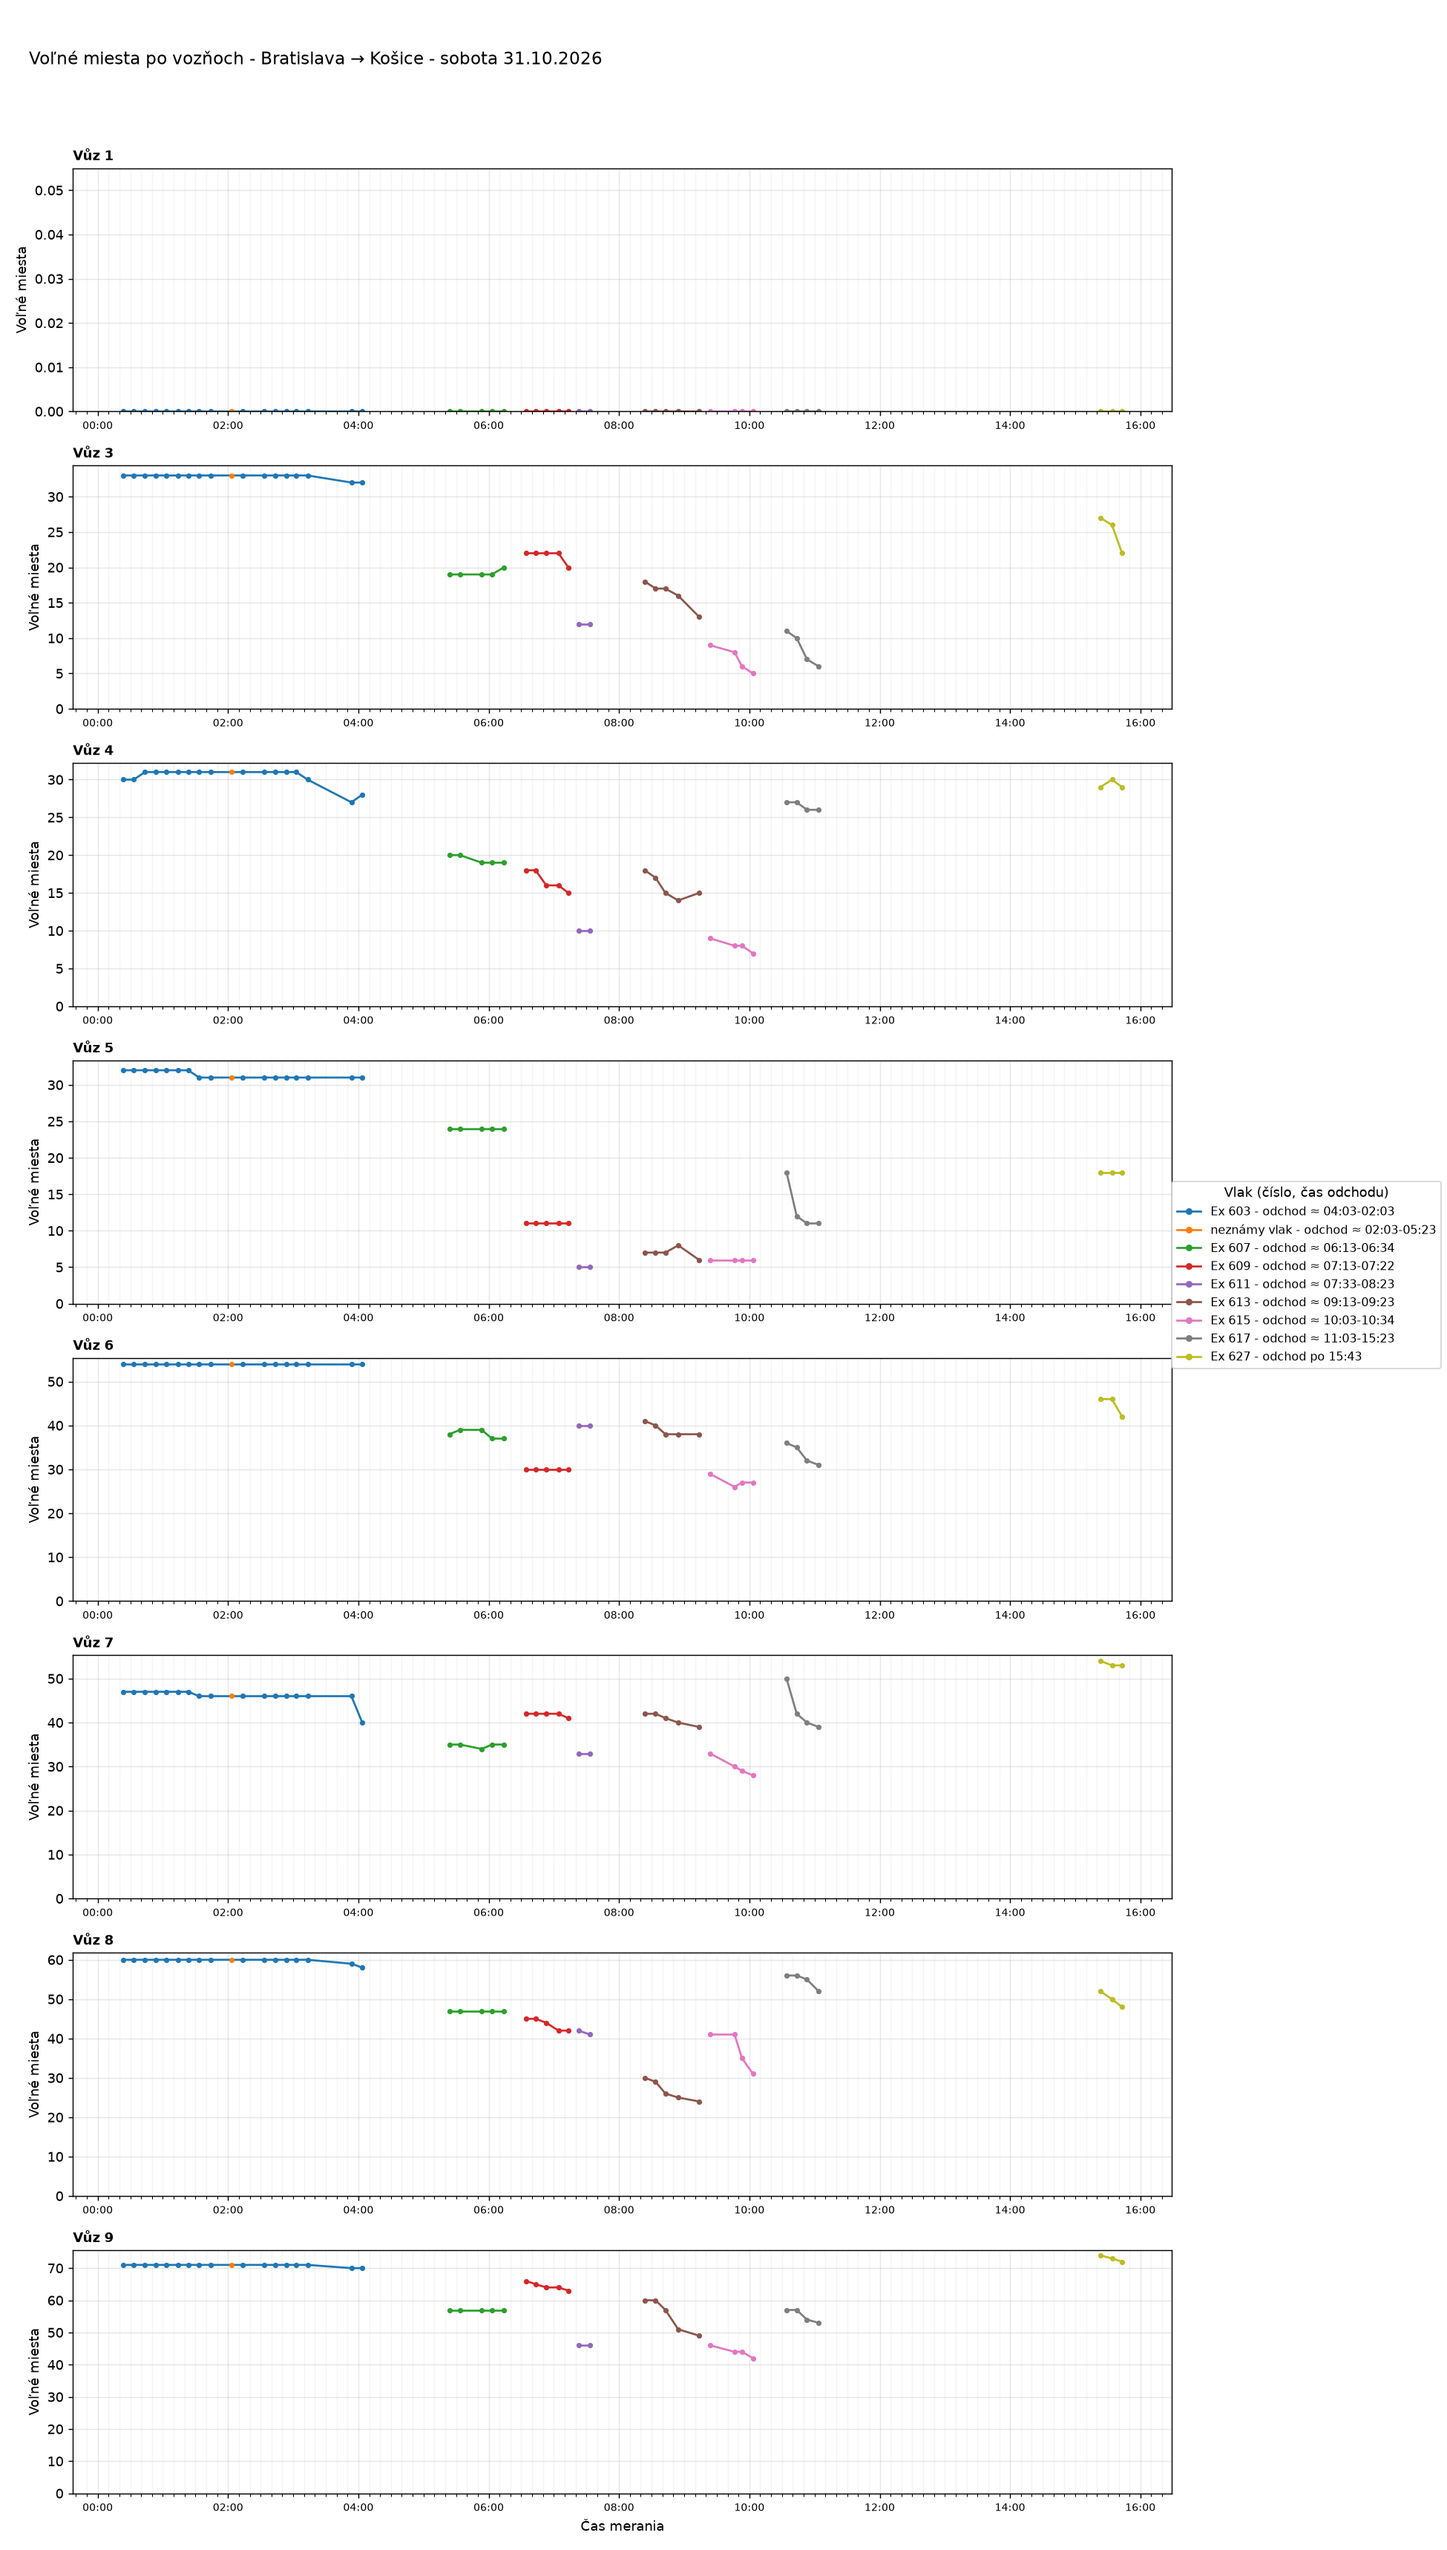
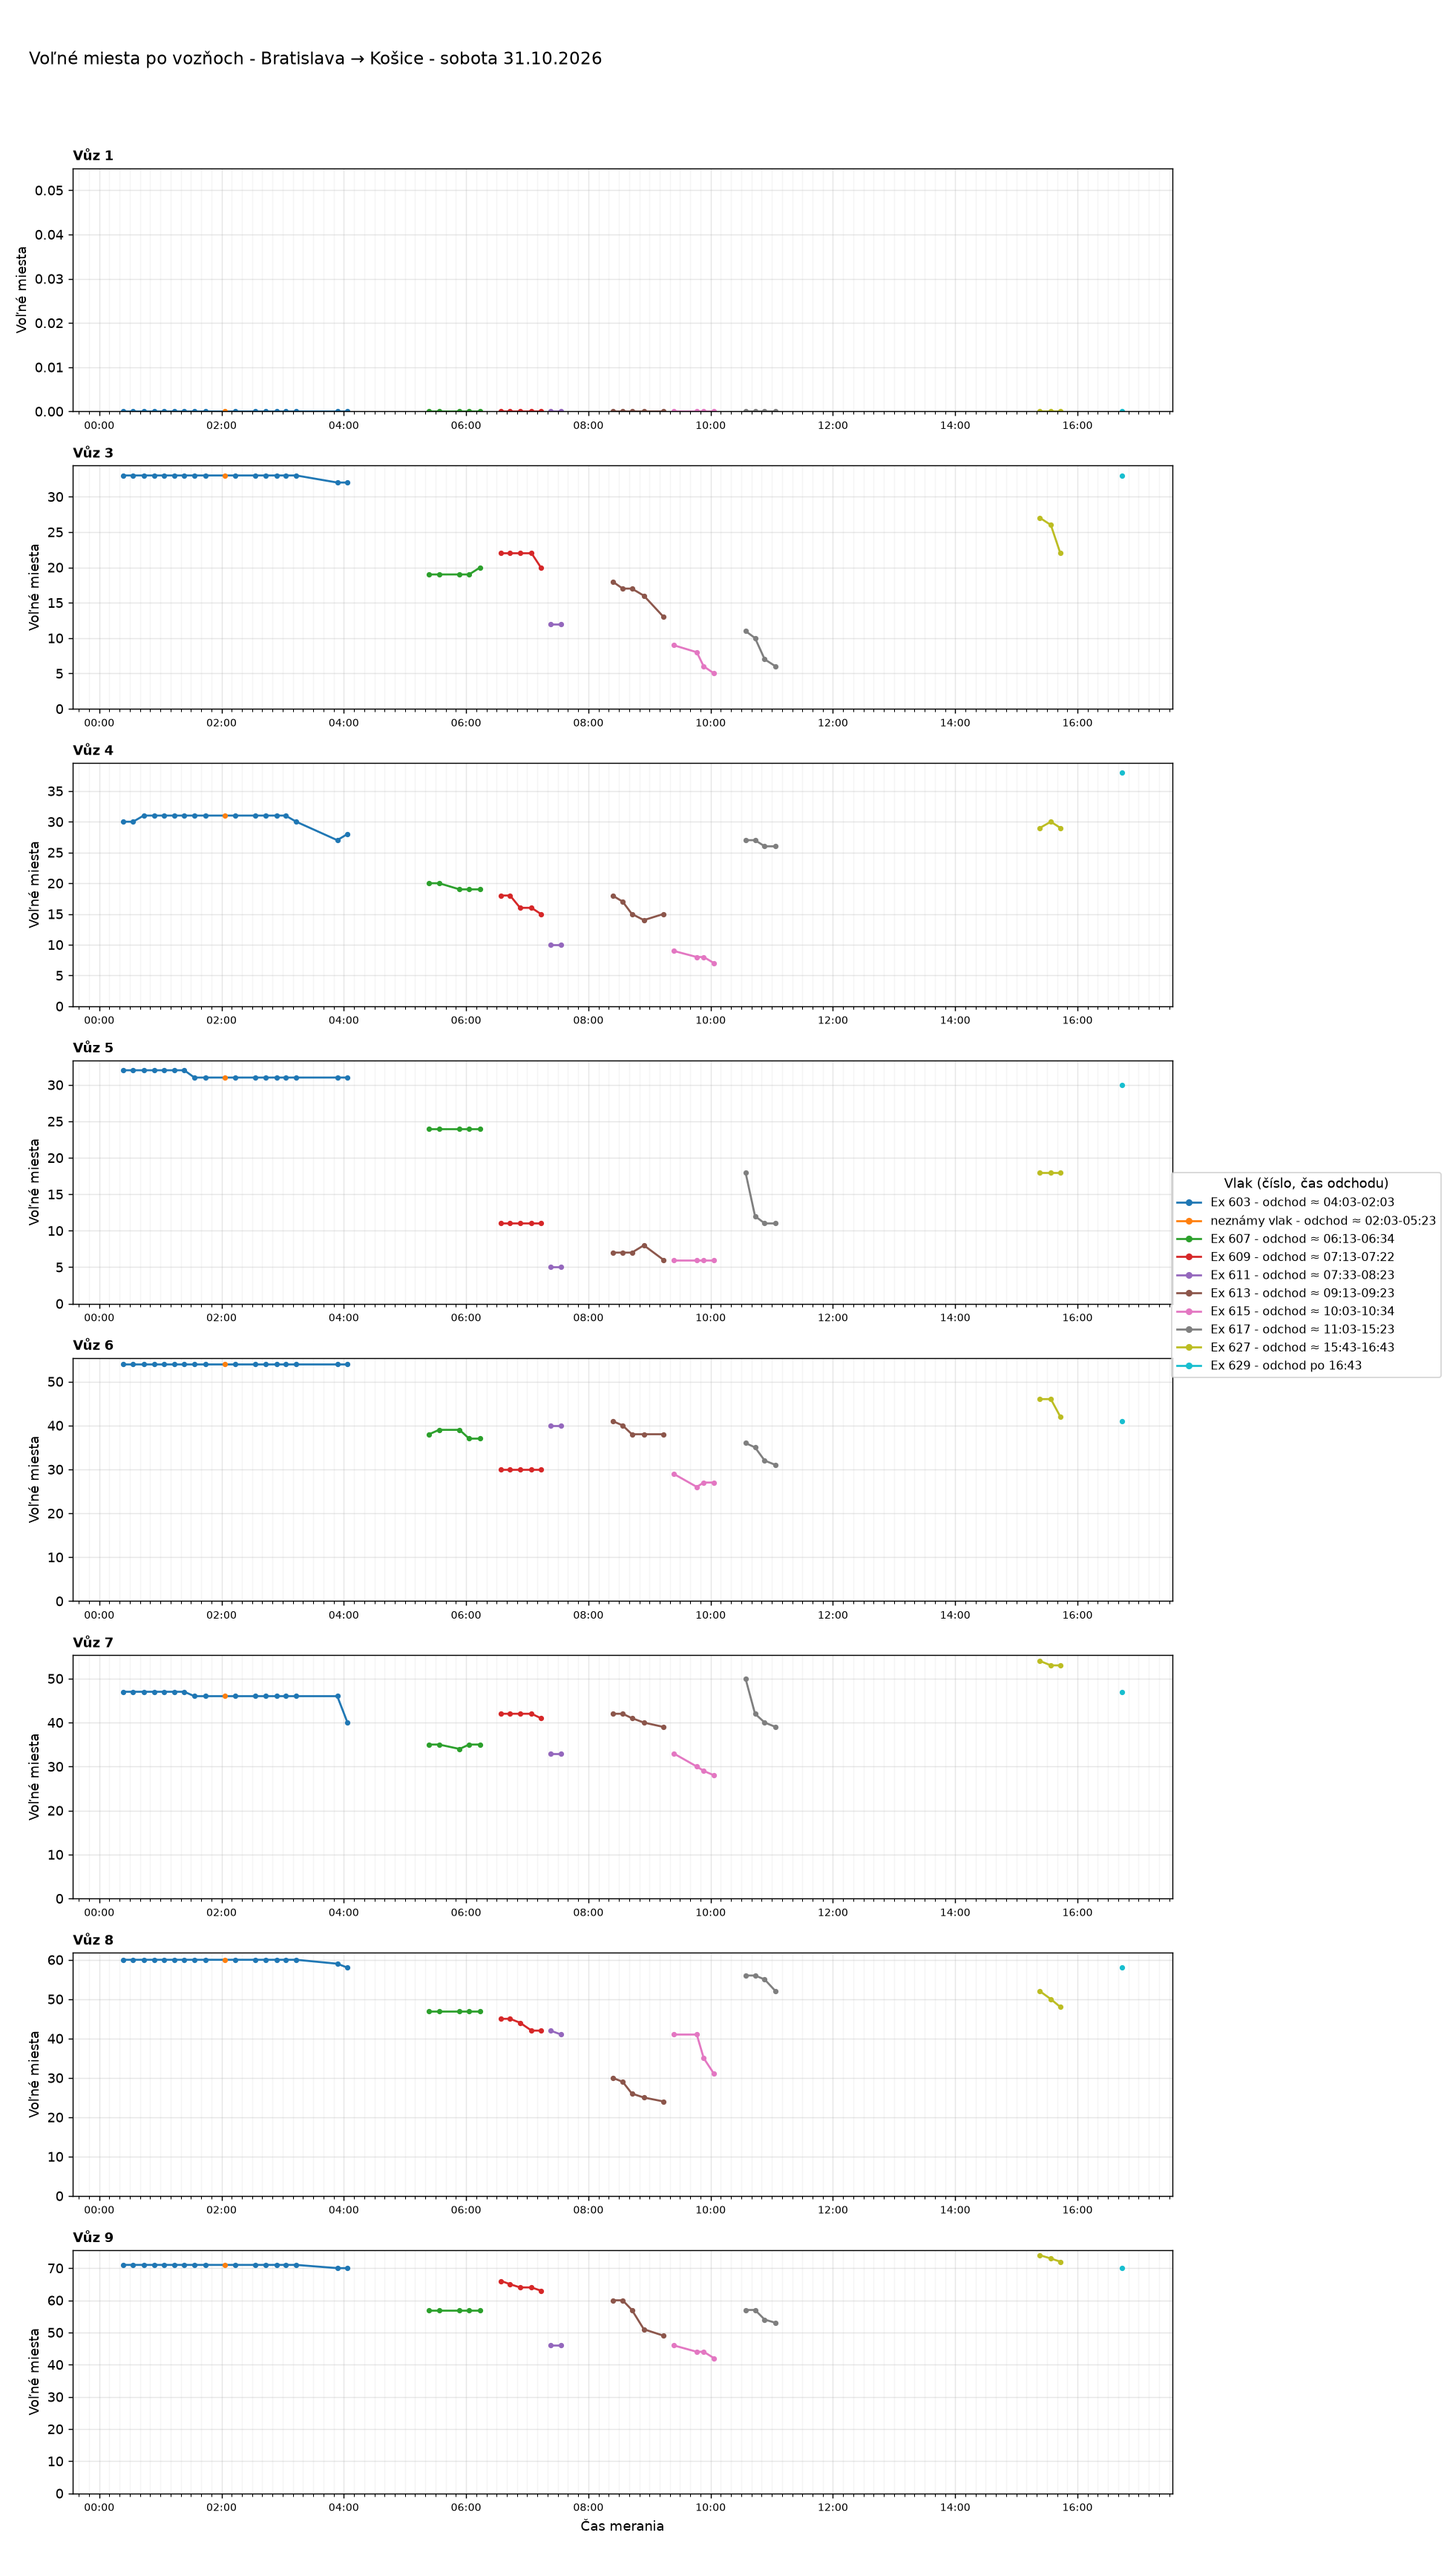
Aktualizácia grafov 2026-10-31 17:04

Changed region(s): [[0.8, 0.436, 0.9846, 0.5605], [0.0308, 0.3425, 0.0615, 0.3737]]

diff --git a/index.html b/index.html
@@ -37,7 +37,7 @@ details.trasa>summary{cursor:pointer;font-weight:600;font-size:1.1rem;padding:8p
 <body>
 <main>
 <h1>Voľné miesta vo vlakoch</h1>
-<p class="muted">Posledné meranie: 31.10.2026 15:52 ·
+<p class="muted">Posledné meranie: 31.10.2026 16:52 ·
 <a href="data/obsadenost_data.csv">stiahnuť dáta (CSV)</a></p>
 <nav class="nav"><a href="#suhrn">Súhrn</a><a href="#statistiky">Štatistiky</a><a href="#historia">História grafov</a></nav>
 
@@ -46,9 +46,9 @@ details.trasa>summary{cursor:pointer;font-weight:600;font-size:1.1rem;padding:8p
 <div class="tablewrap"><table>
 <thead><tr><th>Deň</th><th>Trasa</th><th>Meraní</th><th>Vlakov</th><th>Čas meraní</th></tr></thead>
 <tbody>
-<tr><td><a href="#dBA-VR-2026-10-31">sobota 31.10.2026</a></td><td>Bratislava → Vrútky</td><td>45</td><td>9</td><td>00:21-15:52</td></tr>
-<tr><td><a href="#dVR-BA-2026-10-31">sobota 31.10.2026</a></td><td>Vrútky → Bratislava</td><td>40</td><td>8</td><td>02:42-15:52</td></tr>
-<tr><td><a href="#dBA-KE-2026-10-31">sobota 31.10.2026</a></td><td>Bratislava → Košice</td><td>46</td><td>9</td><td>00:23-15:43</td></tr>
+<tr><td><a href="#dBA-VR-2026-10-31">sobota 31.10.2026</a></td><td>Bratislava → Vrútky</td><td>46</td><td>10</td><td>00:21-16:52</td></tr>
+<tr><td><a href="#dVR-BA-2026-10-31">sobota 31.10.2026</a></td><td>Vrútky → Bratislava</td><td>42</td><td>9</td><td>02:42-16:52</td></tr>
+<tr><td><a href="#dBA-KE-2026-10-31">sobota 31.10.2026</a></td><td>Bratislava → Košice</td><td>47</td><td>10</td><td>00:23-16:43</td></tr>
 <tr><td><a href="#dKE-BA-2026-10-31">sobota 31.10.2026</a></td><td>Košice → Bratislava</td><td>37</td><td>10</td><td>00:34-15:44</td></tr>
 <tr><td><a href="#dBA-VR-2026-10-30">piatok 30.10.2026</a></td><td>Bratislava → Vrútky</td><td>68</td><td>16</td><td>00:31-23:31</td></tr>
 <tr><td><a href="#dVR-BA-2026-10-30">piatok 30.10.2026</a></td><td>Vrútky → Bratislava</td><td>56</td><td>14</td><td>02:52-21:02</td></tr>
